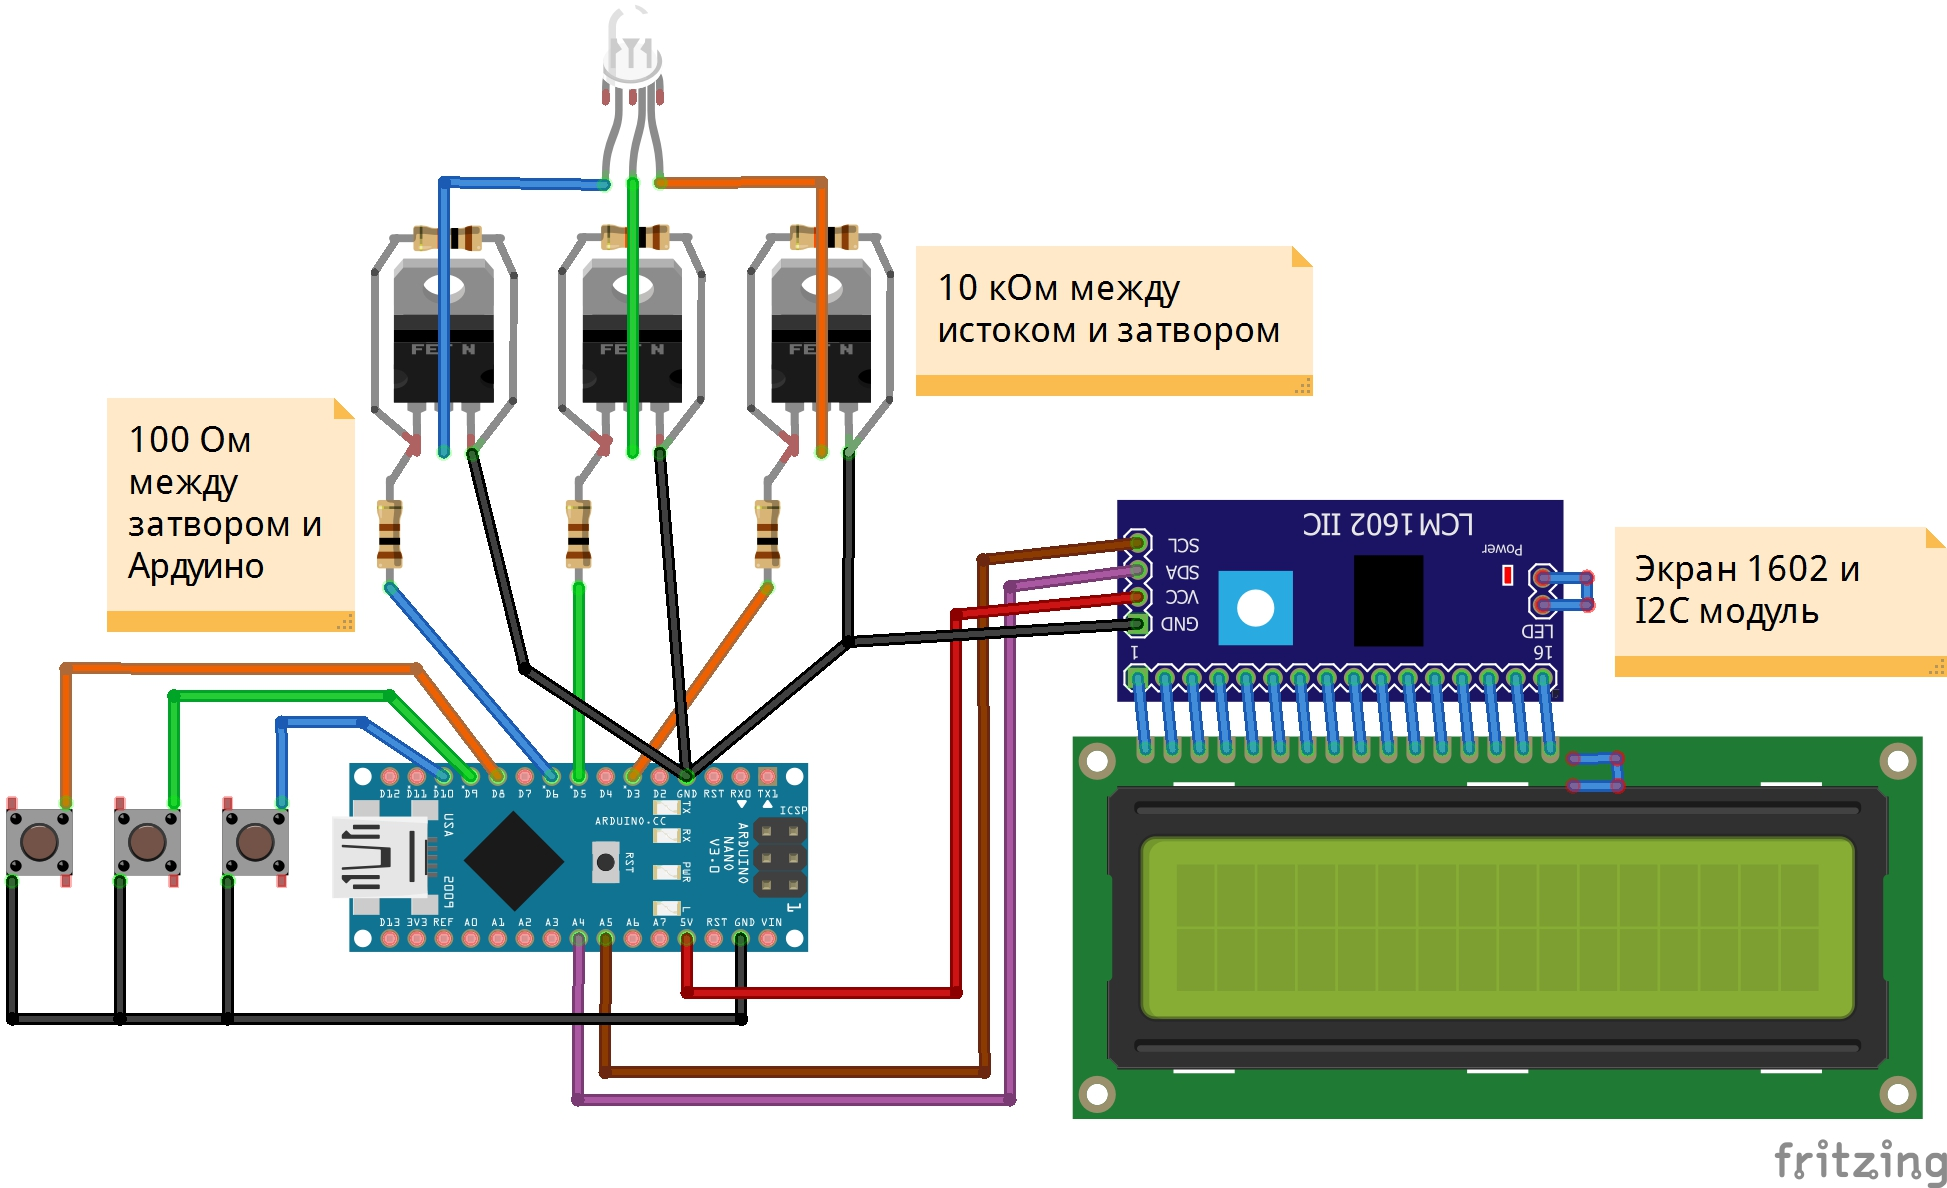
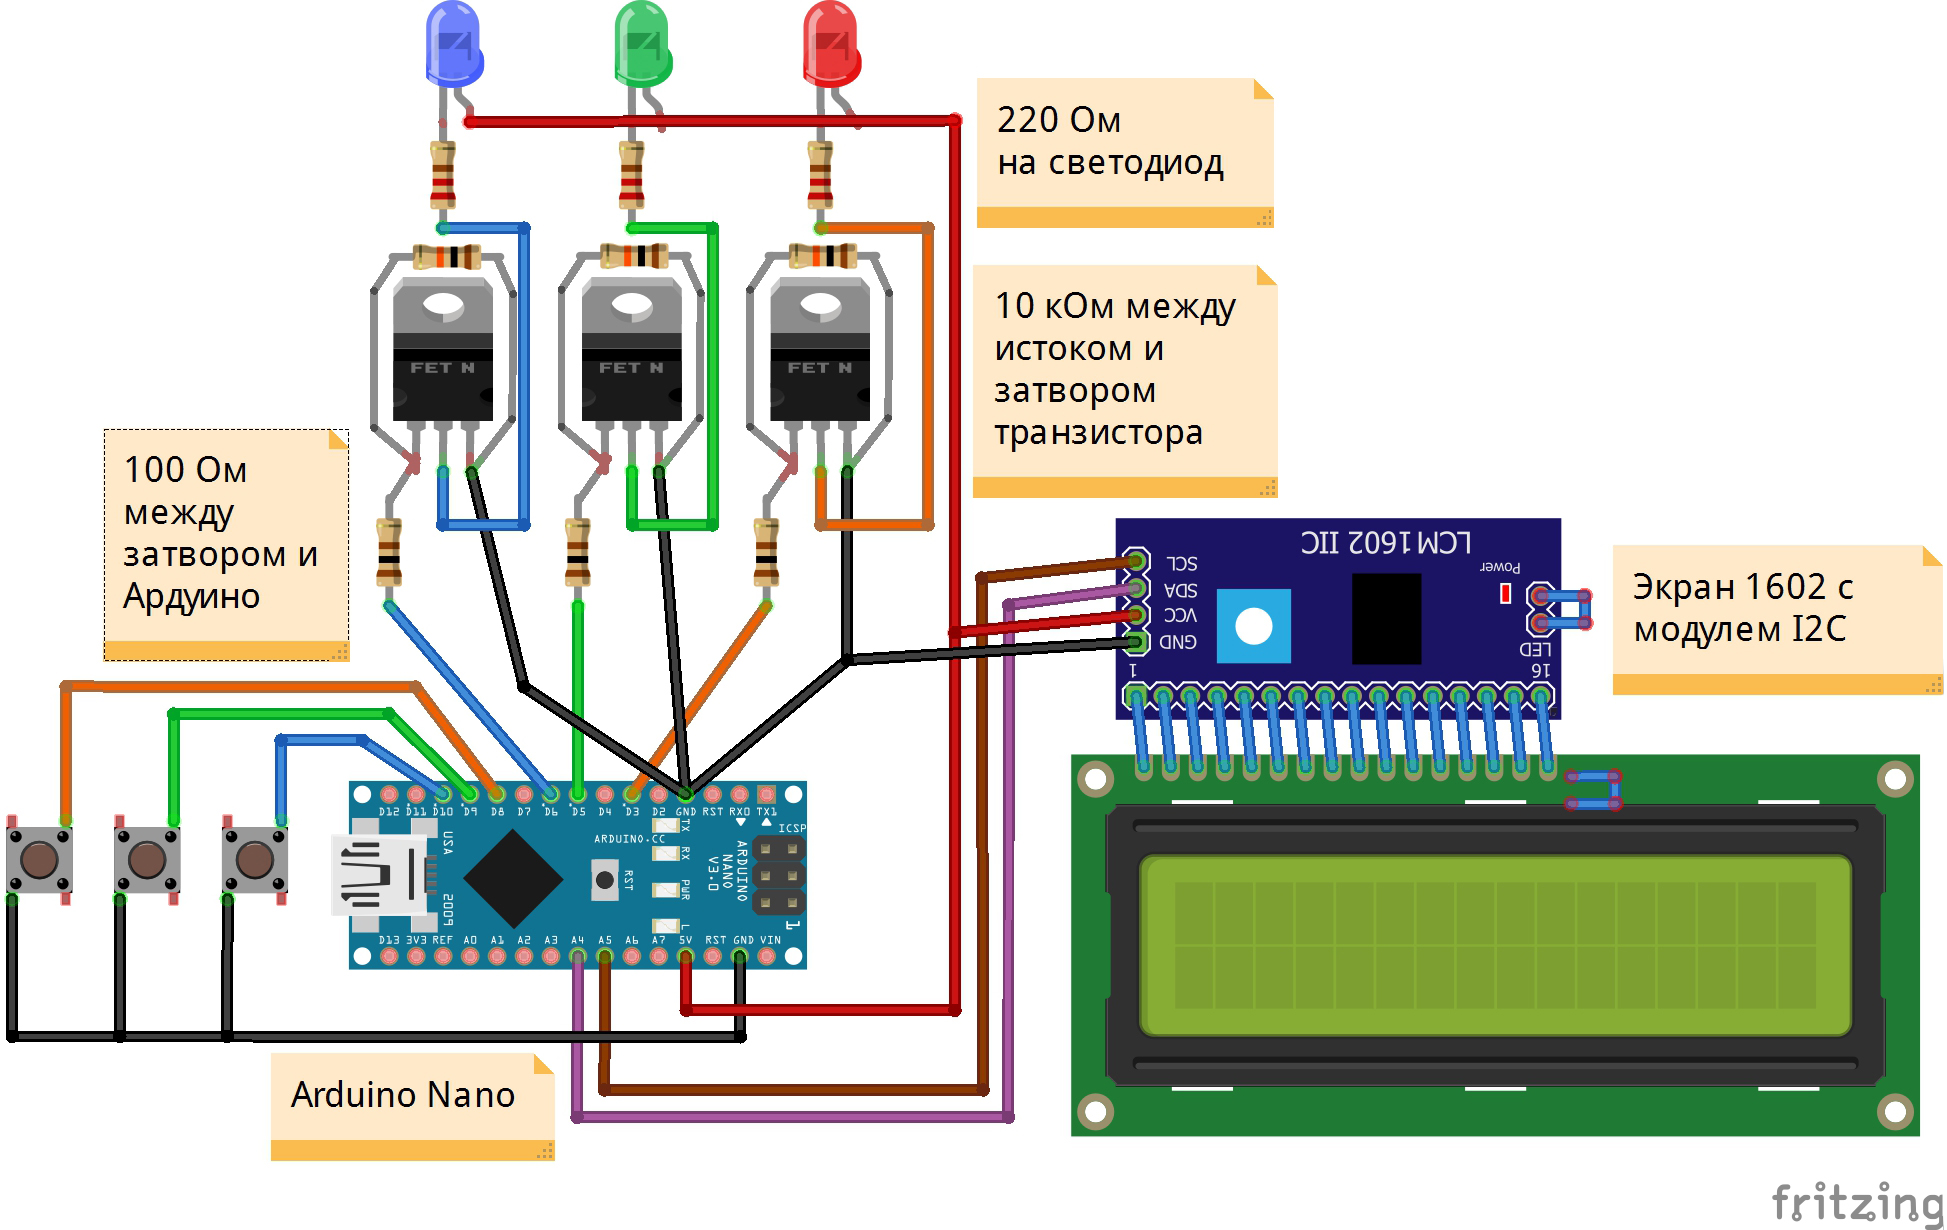
upd

Changed region(s): [[0.0, 0.0, 1.0, 1.0], [0.678, 0.4049, 0.7704, 0.4672], [0.2773, 0.436, 0.3082, 0.5295]]

diff --git a/README.md b/README.md
@@ -24,13 +24,13 @@
 ## Папки
 - **libraries** - библиотеки для работы с проектом
 - **RBGflashlight** - прошивка для Arduino
-- **shablon** - шаблоны в .pdf формате для разметки заглушек
+- **shablon** - шаблоны в .pdf формате для разметки заглушек 110мм
 
 <a id="chapter-2"></a>
 ## Упрощенная схема подключения
 ![СХЕМА1](https://github.com/voltNik/RGB-flashlight/blob/master/RGB-flashlight_bb1.jpg)
 ## Полная схема подключения
-![СХЕМА2](https://github.com/voltNik/RGB-flashlight/blob/master/RGB-flashlight_bb1.jpg)
+![СХЕМА2](https://github.com/voltNik/RGB-flashlight/blob/master/RGB-flashlight_full_bb2.jpg.jpg)
 
 <a id="chapter-3"></a>
 ## Материалы и компоненты
